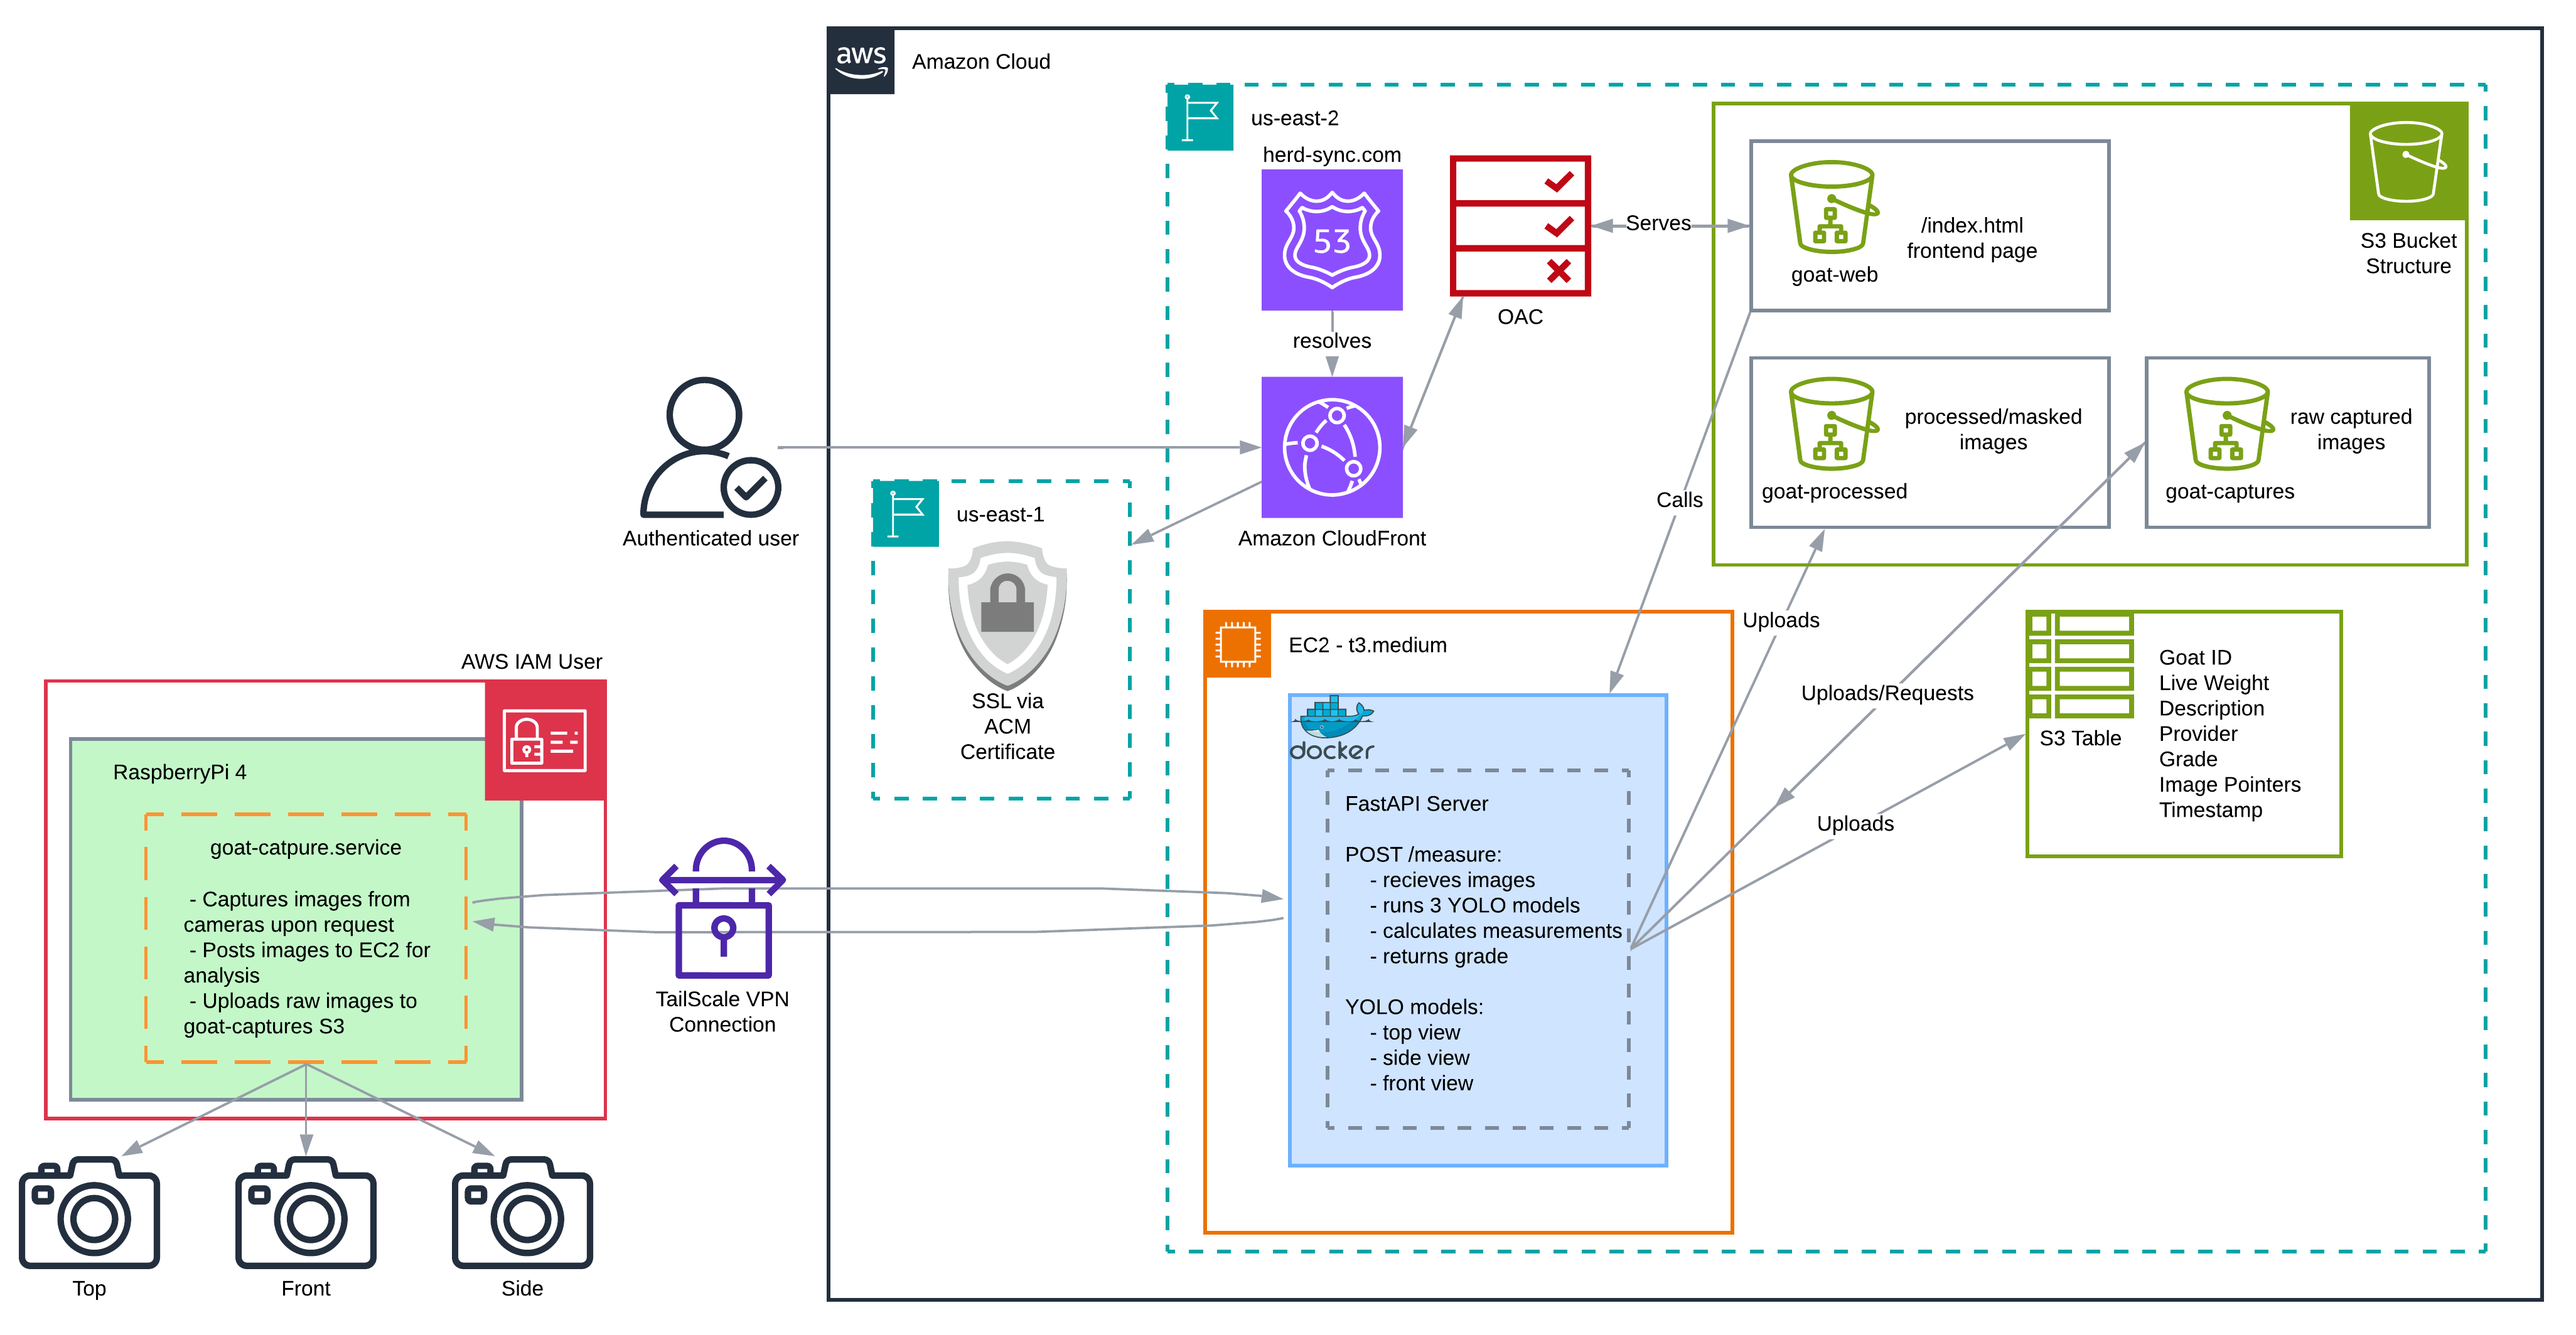
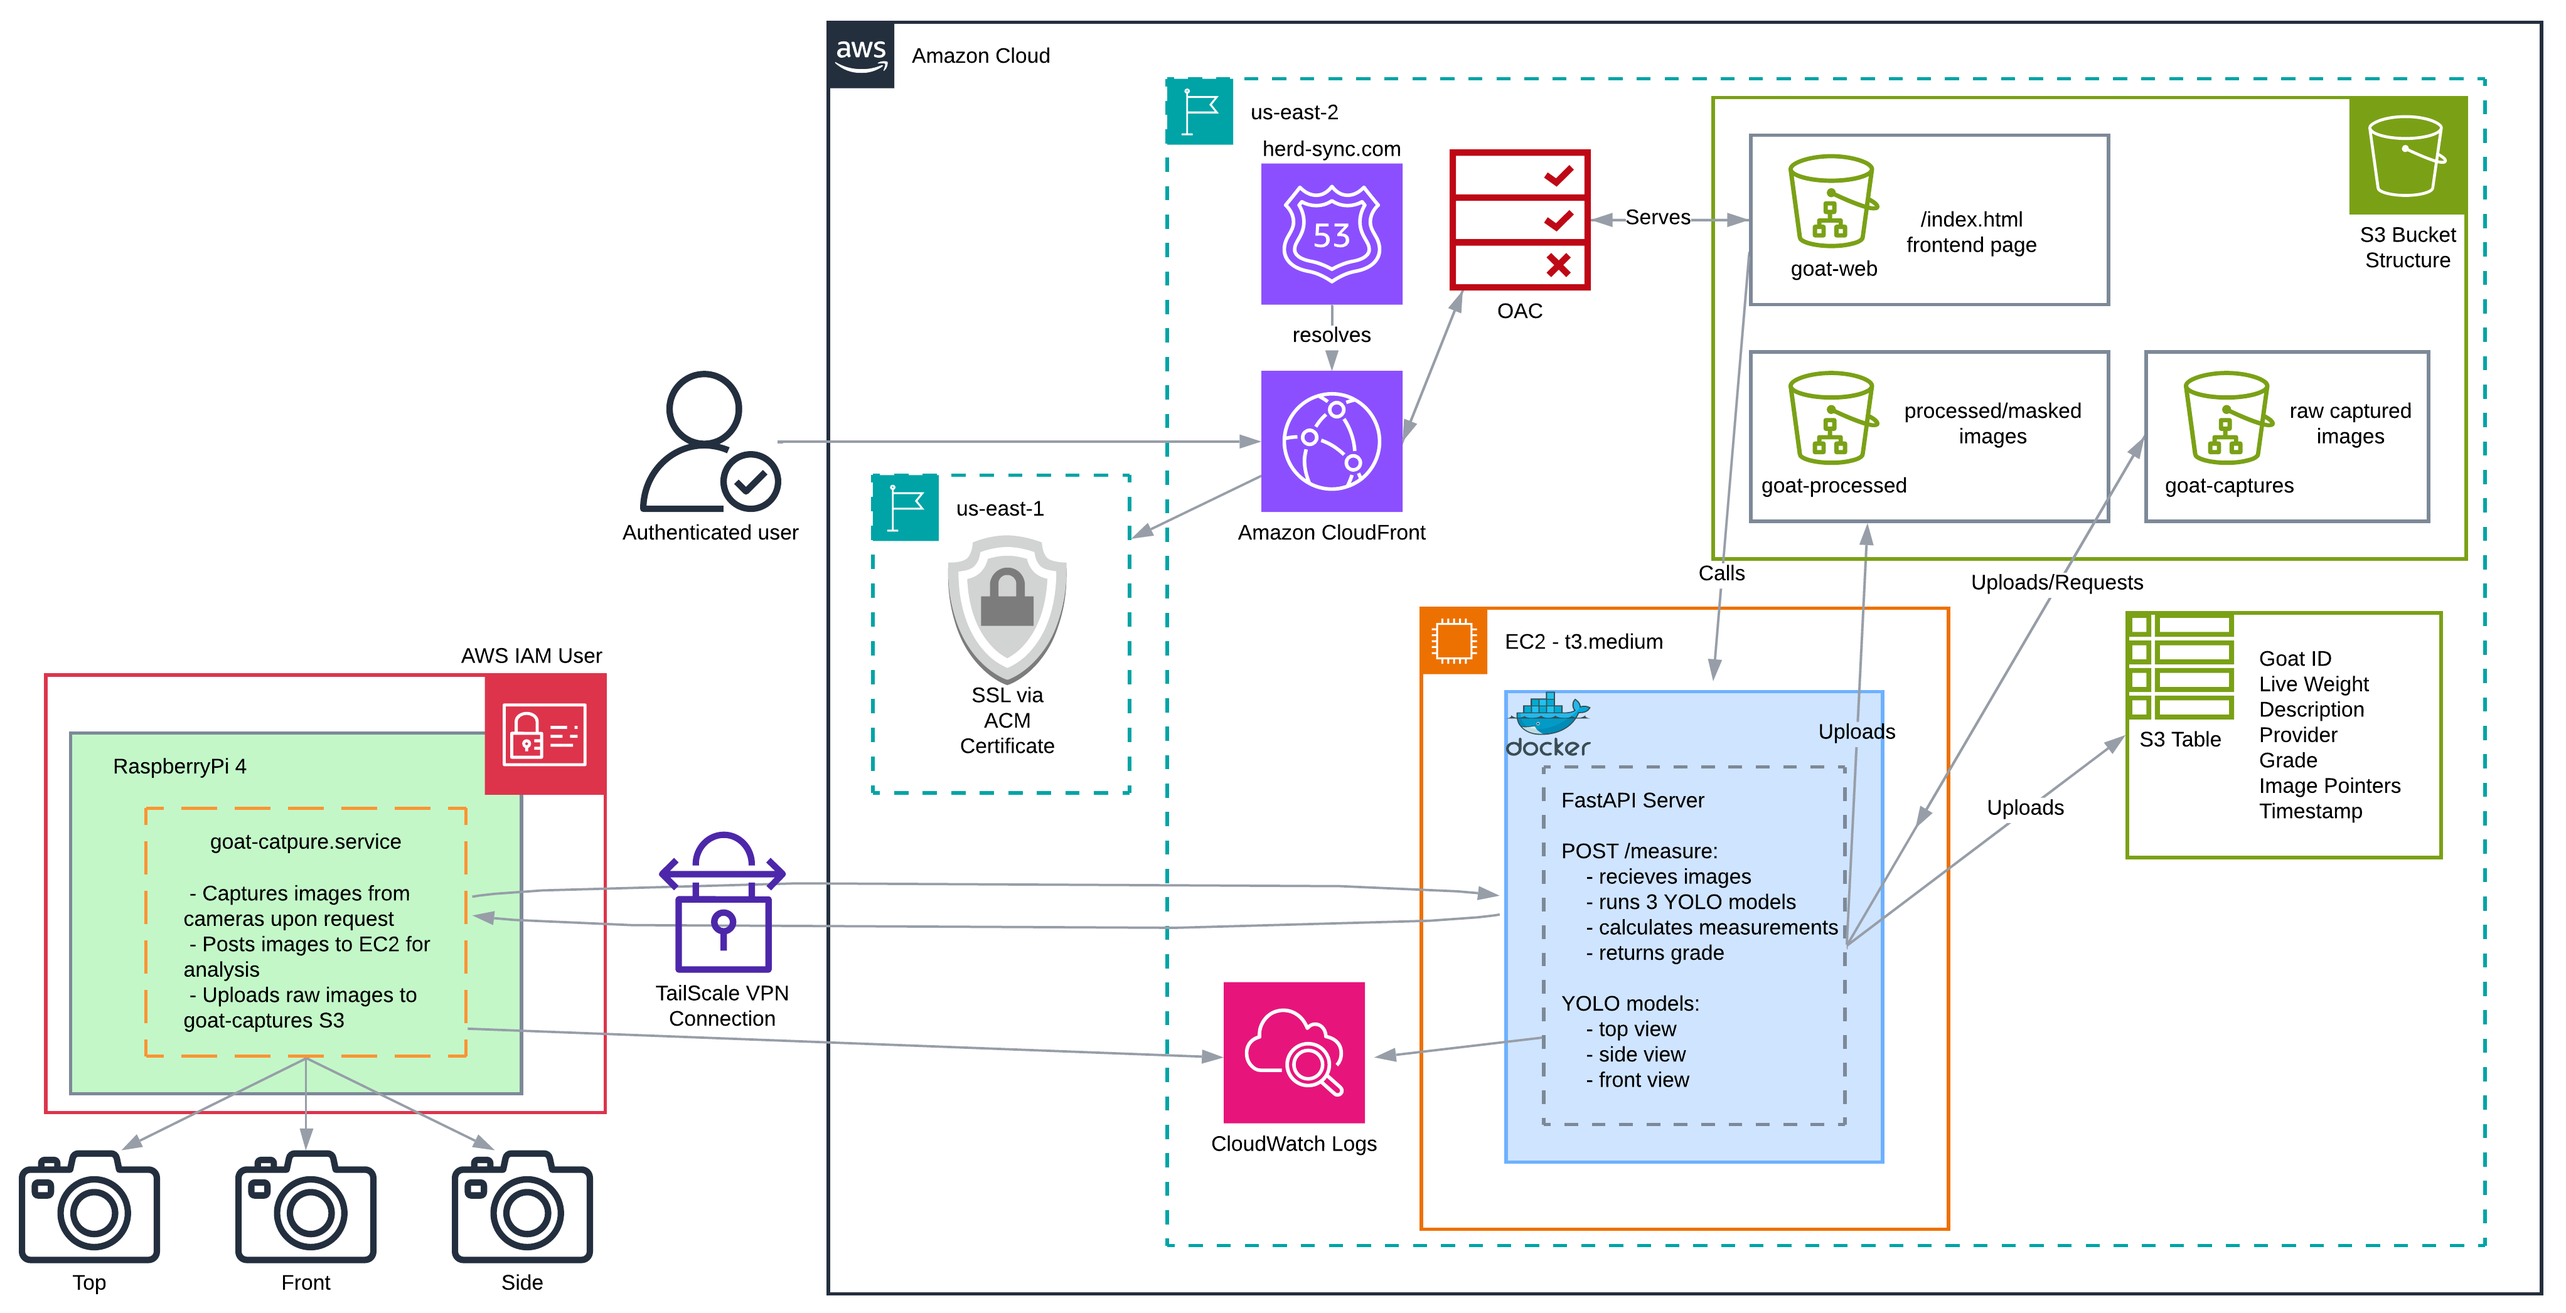
fix(training-ui): refine the training interface
- camera check log redundancy
- Added cloudwatch to diagrams
- Changed TEMP-training --> just training. no need to delete when were done with training

Changed region(s): [[0.0, 0.0, 0.9939, 0.9938], [0.4348, 0.528, 0.4659, 0.559]]

diff --git a/training/pi-server/server.py b/training/pi-server/server.py
@@ -27,7 +27,7 @@ CAMERAS = {
     'front': '/dev/camera_front'
 }
 
-S3_TRAINING_BUCKET = os.environ.get('S3_TRAINING_BUCKET', 'temp-training-937249941844')
+S3_TRAINING_BUCKET = os.environ.get('S3_TRAINING_BUCKET', 'training-937249941844')
 
 # Thresholds
 MIN_DISK_MB = 1000          # Require 1GB free
@@ -636,18 +636,22 @@ def record():
     camera_checks = {}
     for name, path in CAMERAS.items():
         camera_checks[name] = check_camera(name, path)
-    
+
     failed_cameras = {name: check for name, check in camera_checks.items() if check.get('error')}
-    
+    working_cameras = {name: check for name, check in camera_checks.items() if not check.get('error')}
+
+    is_test = str(goat_id).startswith('test_')
+
     if failed_cameras:
-        errors = []
-        fixes = []
-        for name, check in failed_cameras.items():
-            errors.append(f"{name}: {check['error']}")
-            if check.get('fix'):
-                fixes.append(f"{name}: {check['fix']}")
-            log.error(f'camera:{name}', 'Pre-flight check failed',
-                     error=check['error'], fix=check.get('fix'))
+        log.warn('record', 'Some cameras not ready',
+                goat_id=goat_id,
+                missing=','.join(failed_cameras.keys()),
+                available=','.join(working_cameras.keys()))
+
+    # Block real recordings if cameras missing, allow tests to proceed
+    if failed_cameras and not is_test:
+        errors = [f"{name}: {check['error']}" for name, check in failed_cameras.items()]
+        fixes = [f"{name}: {check['fix']}" for name, check in failed_cameras.items() if check.get('fix')]
         
         return jsonify({
             'status': 'error',
@@ -656,7 +660,15 @@ def record():
             'cameras': camera_checks,
             'errors': errors,
             'fixes': fixes
-        }), 503  # Service Unavailable
+        }), 503
+
+    if not working_cameras:
+        log.error('record', 'No cameras available at all', goat_id=goat_id)
+        return jsonify({
+            'status': 'error',
+            'error_code': 'NO_CAMERAS',
+            'message': 'No cameras connected'
+        }), 503
     
     # Kill any stale ffmpeg processes
     kill_stale_ffmpeg()

diff --git a/training/README.md b/training/README.md
@@ -25,7 +25,7 @@ Becky's Phone → herd-sync.com/training → Pi Server → Records 5s video → 
 Flask server running on port 5001:
 
 - Records 5-second videos from connected cameras
-- Uploads to S3 bucket `temp-training-937249941844`
+- Uploads to S3 bucket `training-937249941844`
 - Endpoints:
   - `GET /health` - Quick health check
   - `GET /diagnostics` - Detailed system info
@@ -53,14 +53,14 @@ Run locally after Becky has collected videos:
 
 Deployed via GitHub Actions (`.github/workflows/deploy-pi.yml`):
 
-- Triggers on changes to `pi/**` or `TEMP-training/pi-server/**`
+- Triggers on changes to `pi/**` or `training/pi-server/**`
 - Restarts `goat-training.service` automatically on the pi
 
 ### Web UI
 
 Deployed via GitHub Actions (`.github/workflows/deploy-frontend.yml`):
 
-- Triggers on changes to `TEMP-training/web/**`
+- Triggers on changes to `training/web/**`
 - Syncs to `s3://goat-web-937249941844/training/`
 
 ## Usage
@@ -78,7 +78,7 @@ Deployed via GitHub Actions (`.github/workflows/deploy-frontend.yml`):
 ### Processing (after collection)
 
 ```bash
-cd TEMP-training/scripts
+cd training/scripts
 pip install -r requirements.txt
 python extract_frames.py --fps 5
 ```
@@ -93,35 +93,11 @@ Per goat: 3 cameras × 5 seconds × 5fps = 75 frames
 ## S3 Structure
 
 ```
-temp-training-937249941844/
+training-937249941844/
 ├── 1/
 │   ├── 1_side.mp4
 │   ├── 1_top.mp4
 │   └── 1_front.mp4
 ├── 2/
 │   └── ...
-```
-
-## Cleanup
-
-When training is complete, delete everything:
-
-```bash
-# Remove S3 training data
-aws s3 rb s3://temp-training-937249941844 --force
-
-# Remove web UI
-aws s3 rm s3://goat-web-937249941844/training --recursive
-
-# On Pi
-sudo systemctl stop goat-training
-sudo systemctl disable goat-training
-sudo rm /etc/systemd/system/goat-training.service
-
-# Stop 5001 funneling for open internet access
-tailscale funnel --https=443 off
-
-# Remove from repo
-rm -rf TEMP-training/
-git add -A && git commit -m "Remove training system" && git push
 ```

diff --git a/README.md b/README.md
@@ -3,8 +3,9 @@
 This project is intended for UNT Capstone 4901.002.
 
 Developed by
+
 - Quinn Branum
 - Brandon Rubio
 - Enzo Silva
-- Ethan Tenclay
+- Ethan TenClay
 - Cooper Wiethoff
